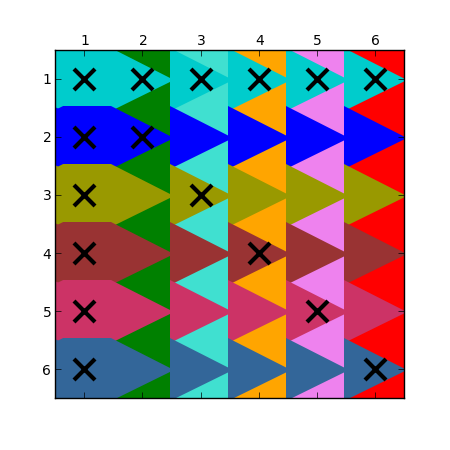
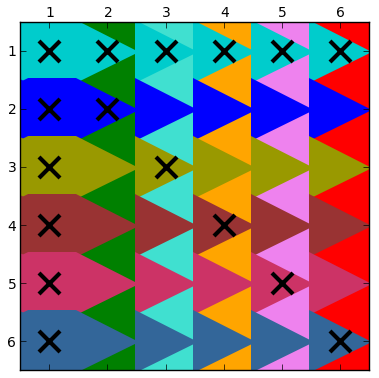
the images for partial coloring added

diff --git a/diss.tex b/diss.tex
@@ -2816,13 +2816,13 @@ history of selections.}
 \subfigure[]{%
 % Matrix C: after choosing 2 vertices
 \includegraphics[width=0.18\textwidth]{arrow-shaped-bipartite-graph-twoselected}
-\includegraphics[width=0.24\textwidth]{arrow-shaped-matrix-twoselected}
+\includegraphics[width=0.26\textwidth]{arrow-shaped-matrix-twoselected}
 }
 \hfill
 \subfigure[]{%
 % Matrix C: after having completed the solution process
 \includegraphics[width=0.18\textwidth]{arrow-shaped-almost-worst-coloring-graph}
-\includegraphics[width=0.24\textwidth]{arrow-shaped-almost-worst-coloring-matrix}
+\includegraphics[width=0.26\textwidth]{arrow-shaped-almost-worst-coloring-matrix}
 }%
 \caption{The graph and the nonzero pattern (a) taken from Fig.~\protect\ref{f.explain}
 after the student interactively selected the vertices $r_2$
@@ -2850,13 +2850,13 @@ the column color.
 \subfigure[]{%
 % Matrix C: Minimal number of colors
 \includegraphics[width=0.18\textwidth]{arrow-shaped-best-coloring-graph}
-\includegraphics[width=0.24\textwidth]{arrowshaped-best-coloring-matrix}
+\includegraphics[width=0.26\textwidth]{arrowshaped-best-coloring-matrix}
 }%
 \hfill
 \subfigure[]{%
 % A different matrix : after having completed the solution process
 \includegraphics[width=0.18\textwidth]{arrow-shaped2-best-coloring-graph}
-\includegraphics[width=0.24\textwidth]{arrow-shaped2-best-coloring-matrix}
+\includegraphics[width=0.26\textwidth]{arrow-shaped2-best-coloring-matrix}
 }%
 \caption{A star bicoloring (a) of the problem instance from
 Fig.~\protect\ref{f.explain} also considered in Fig.~\protect\ref{f.arrow-shaped2}. This
@@ -2911,6 +2911,36 @@ and the corresponding nonzero elements are added to required elements.
 As soon as the student starts to click the vertices, the required elements
 are become fixed, i.e. no new required elements can be added.
 The other processes of coloring are completely like the previous module.
+
+\begin{figure}
+\centering
+\subfigure[]{
+\includegraphics[width=0.18\textwidth]{arrow_shaped_partial_coloring_oneselect_graph}
+\includegraphics[width=0.26\textwidth]{arrow_shaped_partial_coloring_oneselect_matrix}}
+\hfill
+\subfigure[]{
+\includegraphics[width=0.18\textwidth]{arrow_shaped_partial_coloring_init_graph}
+\includegraphics[width=0.26\textwidth]{arrow_shaped_partial_coloring_init_matrix}}
+\caption{
+(a) 
+(b)}
+\label{partial_coloring_bad_coloring}
+\end{figure}
+
+\begin{figure}
+\centering
+\subfigure[]{
+\includegraphics[width=0.18\textwidth]{arrow_shaped_partial_coloring_init_graph_bad_coloring}
+\includegraphics[width=0.26\textwidth]{arrow_shaped_partial_coloring_init_matrix_bad_coloring}}
+\hfill
+\subfigure[]{
+\includegraphics[width=0.18\textwidth]{arrow_shaped_partial_coloring_init_graph_good_coloring}
+\includegraphics[width=0.26\textwidth]{arrow_shaped_partial_coloring_init_matrix_good_coloring}}
+\caption{
+(a) 
+(b)}
+\label{partial_coloring_good_coloring}
+\end{figure}
 
 \subsection{Nested dissection ordering}
 Given a sparse symmetric matrix $A$, the nested dissection method finds a
